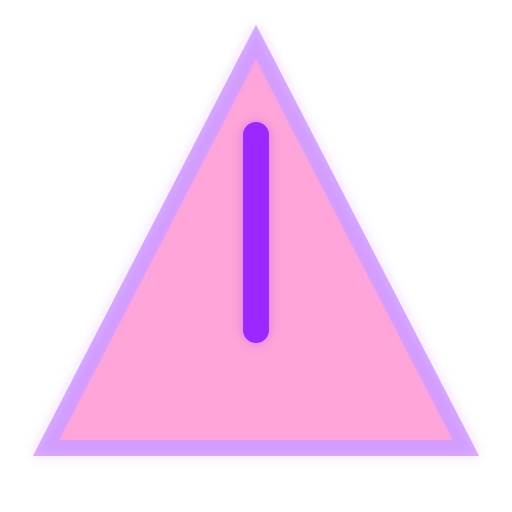
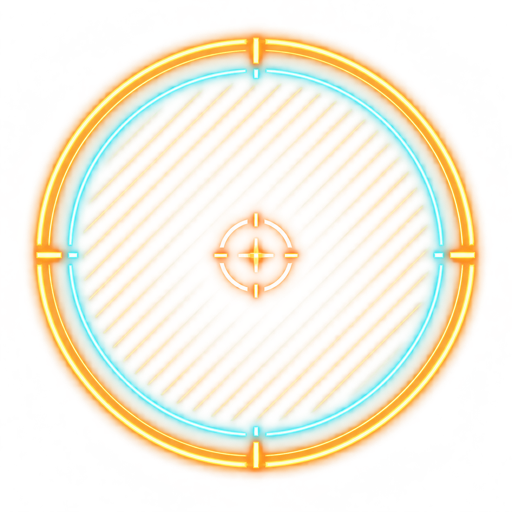
feat: F-37 接入 Bomber 圆形预警素材；重复基线 93 → 92
**素材侧已交付**（2026-10-16）：`GFX-HAZARD-BOMBER-WARN` 的 default
状态改为**透明背景的圆形落点预警**（双环、中心十字、圆内刻度；无三角
外轮廓、无感叹号），512×512，运行时按 logical r=90 缩放。

**研发侧核对（独立实现）**：
* 三份文件 SHA-256 **完全一致**且等于权威值
  `fe4dfe0891b73cfe5966dd4efba72299a5154e4ed54e68aaca67d03ef4fed9b6`：
  `素材/图形/投射物与预警/GFX-HAZARD-BOMBER-WARN.png`、
  `素材/图形/运行时PNG/投射物与预警/..._default.png`、
  `assets/images/v2/GFX-HAZARD-BOMBER-WARN__default.png`；
* 该素材**已独立**（不再与 UI 警告资源共用文件）；
* 图形重复由 **93 → 92**，按审计要求**只更新临时冻结值，
  不关闭 F-30/F-27**。

**研发侧的代码边界**（F-37 执行动作第 1 条）**已在 `cc700a3` 完成**：
`_drawHazards` 不再整张叠加 `UI-COLORBLIND-PATTERN-DANGER`；
保留 `GFX-HAZARD-BOMBER-ACTIVE` 的圆环/十字正式素材作为第二识别维度；
半径/伤害/时序未改；未用 Canvas 临时画斜杠。
该 UI 图案**未删除**，继续用于 HUD/屏幕空间的危险与濒危提示 ✓。

验证：flutter analyze 零问题；flutter test **780/780**（不含 golden）；
golden **9/9**。

**待办**：Bomber 的**截图/Golden 视觉验收**尚未产出 —— 需要把对局
驱动到 bomber_drop 预警/危险区出现的那一帧再截图，我下一步做。
真实设备 Release 截图仍按批复保留为发布阻断证据。

diff --git a/test/unit/content/duplicate_asset_test.dart b/test/unit/content/duplicate_asset_test.dart
@@ -68,12 +68,12 @@ void main() {
     // 只有 20 个是独立美术。因此这里冻结的是**规模**：
     // 素材侧补齐后重复组数会大幅下降，本用例即会失败并提示更新。
     // 素材侧逐批修复中：107 → 101（敌机）→ 97（预警/危险区/激光/突破箭头）
-    // → 93（精英名称条与三种词缀光环）。
+    // → 93（精英名称条与三种词缀光环）→ 92（Bomber 圆形预警 WARN 独立）。
     // 按审计要求**只更新临时基线，不关闭 F-30 / F-27**。
     // 其余跨语义重复（投射物、武器效果、升级图标、HUD 等）仍待素材侧处理，
     // 产品负责人已明确 F-27 保持 P0 未关闭，因此这里继续冻结剩余规模。
     const knownDuplicateGroups = 42;
-    const knownDuplicateIds = 93;
+    const knownDuplicateIds = 92;
 
     final duplicateIds = shared.expand((g) => g).toSet();
 

diff --git a/docs/研发反馈意见.md b/docs/研发反馈意见.md
@@ -1495,7 +1495,7 @@ manifest、产品数值或规范；若失败，只登记实际缺失项并转交
 
 ---
 
-## F-37 🔴 P1：Bomber 圆形落点被三角警示牌素材破坏（2026-10-16）
+## F-37 🔶 P1：Bomber 圆形落点被三角警示牌素材破坏（素材已交付，待研发接入验收，2026-10-16）
 
 ### 负责人复核结论
 
@@ -1518,15 +1518,24 @@ manifest、产品数值或规范；若失败，只登记实际缺失项并转交
    UI-COLORBLIND-PATTERN-DANGER。保留 GFX-HAZARD-BOMBER-ACTIVE 的圆环/十字正式素材
    作为第二识别维度；不得改半径、伤害、时序或用 Canvas 临时画斜杠。该 UI 图案继续用于
    HUD/屏幕空间的低血、危险提示，不从项目删除。
-2. **素材负责人必须交付替换件**：重制 GFX-HAZARD-BOMBER-WARN 的 default 状态为透明背景
-   的圆形落点预警（外环、中心十字、圆内斜线/刻度；无三角外轮廓、无感叹号）；512×512，
-   运行时按 logical r=90 缩放。它必须与任何 UI、回退、Boss、其他预警资源 SHA-256 不同，
-   并同步源文件、运行时 PNG、两份 manifest、许可证和哈希。
+2. **素材负责人已交付替换件**：GFX-HAZARD-BOMBER-WARN 的 default 状态现为透明背景的
+   圆形落点预警（双环、中心十字、圆内斜线/刻度；无三角外轮廓、无感叹号），512×512，
+   运行时按 logical r=90 缩放。权威源为
+   素材/图形/投射物与预警/GFX-HAZARD-BOMBER-WARN.png；运行时副本为
+   素材/图形/运行时PNG/投射物与预警/GFX-HAZARD-BOMBER-WARN__default.png 与
+   assets/images/v2/GFX-HAZARD-BOMBER-WARN__default.png。三者 SHA-256 均为
+   fe4dfe0891b73cfe5966dd4efba72299a5154e4ed54e68aaca67d03ef4fed9b6，且只对应本 Asset ID。
+   两份 manifest 的 sourceFile、sourceMasterFiles、运行时哈希和许可证记录已同步；四项
+   素材门禁通过。
 3. **禁止把通用 UI 三角图案重新贴回世界圆形危险区。** 若后续任何世界危险区需要独立纹理，
    素材负责人另交付同轮廓的 GFX-HAZARD-attack-PATTERN 正式 PNG，由该 attack 的 manifest
    绑定精确路由；不能复用 UI 图标。
 4. **重新验收**：截图/Golden 必须证明 Bomber 的预警和 ACTIVE 均首先读作圆形地面危险区；
    灰度图下仍可由圆环、十字、刻度/纹理识别；画面中没有大三角覆盖物。
+
+**研发现在可继续的唯一代码动作**：按第 1 条移除 Bomber ACTIVE 上的
+UI-COLORBLIND-PATTERN-DANGER 叠层，保留现有 manifest 路由和所有玩法数值；随后以新 WARN
+素材运行 F-36-T2、F-36-T4 及 Bomber 截图/Golden。以上通过后方可关闭 F-37。
 
 ### 对“旋转战机”的处理
 

diff --git a/docs/全量素材语义审计_2026-10-16.md b/docs/全量素材语义审计_2026-10-16.md
@@ -46,7 +46,7 @@ SHA-256 重复分组、状态名与语义交叉检查，并人工抽查角色、
 | --- | --- | --- |
 | 玩家武器/特效/升级卡共用 | `GFX-FX-MISSILE-BLAST`、`GFX-FX-PULSE-HIT`、`GFX-WPN-DRONE-BOLT`、`GFX-WPN-MISSILE`、`GFX-WPN-PULSE-MUZZLE`、`GFX-WPN-PULSE`；`UI-UP-MISSILE-*`、`UI-UP-PULSE-*` | 攻击形态、命中效果和能力选择无法凭视觉区分。 |
 | 敌弹/预警/暴击特效共用 | `GFX-BOSS-RING-BULLET`、`GFX-ENEMY-BULLET-SHIELD`、`GFX-WARN-CIRCLE`；`GFX-BOSS-FAN-BULLET`、`GFX-ENEMY-BULLET-SNIPER`、`GFX-ENEMY-BULLET-WING`、`GFX-FX-PULSE-CRIT` | 敌弹、Boss 弹幕和可躲避预警被误画成相同物体。 |
-| 警告效果共用（部分已修） | `UI-BOSS-ATTACK-WARN`、`UI-HUD-WARNING-VIGNETTE`、`GFX-HAZARD-BOMBER-WARN` | `GFX-WARN-CONE` 与 `GFX-ENEMY-BREACH-WARN` 已于本补丁重制；其余项目仍会令不同危险范围难以区分。 |
+| 警告效果共用（部分已修） | `UI-BOSS-ATTACK-WARN`、`UI-HUD-WARNING-VIGNETTE` | `GFX-WARN-CONE`、`GFX-ENEMY-BREACH-WARN` 与 `GFX-HAZARD-BOMBER-WARN` 已重制；Bomber 现为独立圆形落点预警。其余项目仍会令不同危险范围难以区分。 |
 | 武器/回退/危险区共用（部分已修） | `GFX-FALLBACK-SILHOUETTE`、`GFX-WPN-ARC`、`GFX-WPN-DRONE`、`GFX-WPN-LASER-HEAD`、`GFX-WPN-LASER-IMPACT` | `GFX-HAZARD-BOMBER-ACTIVE` 已于本补丁重制；其余项目仍使回退图进入正常战斗语义或令攻击缺少独立轮廓。 |
 | 三种精英外环共用 | **已于本补丁修复**：`GFX-ELITE-AURA-ACCEL`、`GFX-ELITE-AURA-SHIELD`、`GFX-ELITE-AURA-BARRAGE` | 三种词缀现以箭头 / 六边形盾片 / 外射弹幕三种形状区分。 |
 | 拾取物共用 | `GFX-PICKUP-ELITE-CORE`、`GFX-PICKUP-SUPPLY-DASH`、`GFX-PICKUP-SUPPLY-HEAL` | 玩家无法在移动中判断奖励类型。 |
